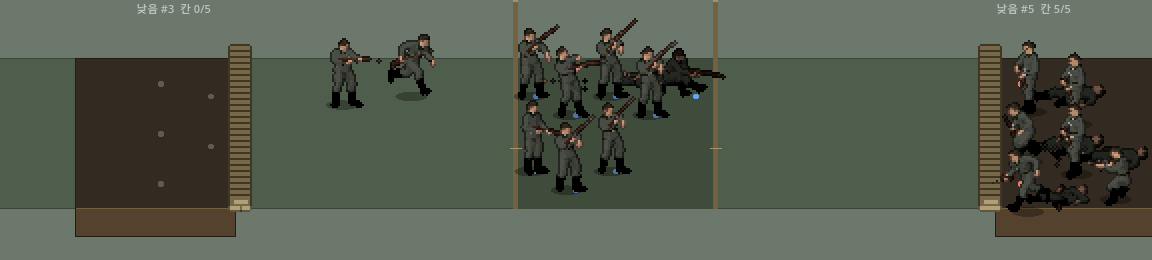
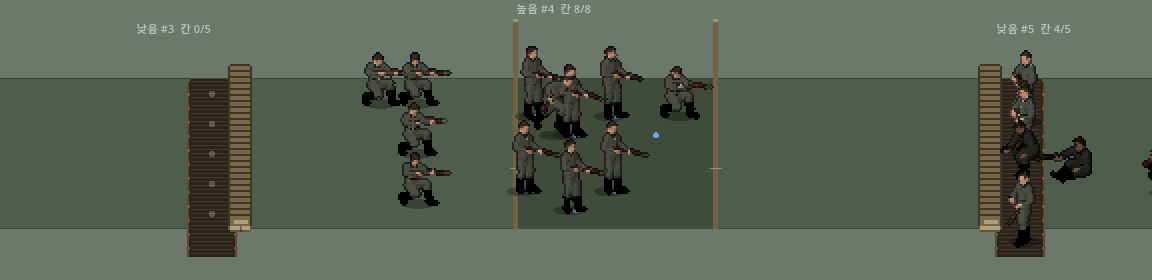
기록: 참호 = 워페어식 좁은 판자 도랑(02 U58 덧붙임 · 맵_리소스 요청 [3] · 카메라 40° 시험 그림 · 작업내역)

diff --git a/Docs/게임설계/맵_리소스.md b/Docs/게임설계/맵_리소스.md
@@ -27,7 +27,9 @@
 사용자: "지금 엄폐물 앉아서, 그 엄폐물이 그 형식대로 참호 버전이 있었으면" · "참호 안이 다 보여야지".
 
 - 엄폐물(낮음 · 높음)마다 **참호 버전**(`BattleCover.dug`) — **시뮬은 모래주머니 판과 똑같다**(구간 · 칸 · 벽 쪽 · 벽 높이 · 쏘는 / 숨는 자세 · 총알 판정). 모습만 땅을 판 것.
-- 도랑 깊이 = 벽 높이 − 모래주머니 0.3 m(낮음 0.7 m · 높음 1.2 m). 도랑(칸 구간 + 벽 반대쪽 1.5 m · 깊이 전체) 안의 것은 그만큼 내려 그린다
+- 모양은 **워페어 참호**(사용자가 보여 준 Warfare 리메이크 화면): 벽 쪽 끝에 폭 1.2 m(`TRENCH_W`)의 좁은 도랑이 깊이 방향으로 길게 · 바닥 판자 · 양옆 말뚝,
+  칸은 도랑 가운데 한 줄로 앞뒤로 늘어선다(병사가 한 줄로 서서 적 쪽을 본다).
+- 도랑 깊이 = 벽 높이 − 모래주머니 0.3 m(낮음 0.7 m · 높음 1.2 m). 도랑(벽 쪽 1.2 m · 깊이 전체) 안의 것은 그만큼 내려 그린다
   (`Battlefield.draw_ground_h` — 병사 · 총알 자국 · 맞은 점 · 조준점 · MG42 표시). 보이는 벽은 땅 위 모래주머니 0.3 m.
 - 화면: 도랑은 **잘라 낸 단면**(안이 다 보임) — 깊이 전체가 어두운 흙, 띠 아래로 도랑 깊이만큼 앞쪽 단면. 병사는 도랑 바닥에 선 채 몸 전체가 보인다.
   적 쪽 끝 모래주머니는 깊이마다 3D 판(지금은 코드로 그린 임시 그림).
@@ -35,7 +37,11 @@
 
 ![참호 버전 엄폐물](img/보병_참호버전.png)
 
-(사용자 씬 · 시험장 10-28 · 1152×648 의 땅 띠 부분. 왼쪽 · 오른쪽 갈색 칸 = 참호 버전 낮은 엄폐물(왼쪽은 비었고 오른쪽에 분대가 앉아 · 엎드려 있음), 가운데 = 원래 높은 엄폐물(모래주머니 판 — 세로 막대는 임시 벽 표시))
+(사용자 씬 · 시험장 10-28 · 지금 카메라 15°. 왼쪽 · 오른쪽 좁은 판자 도랑 = 참호 버전 낮은 엄폐물(오른쪽에 분대가 한 줄로), 가운데 = 원래 높은 엄폐물(모래주머니 판 — 세로 막대는 임시 벽 표시))
+
+**카메라 각도(사용자 결정 대기)** — 워페어 화면은 훨씬 위에서 내려다본다. 같은 장면을 40° · 땅 띠 360 px 로 찍은 것(저장소 값은 15° · 150 px 그대로):
+
+![참호 버전 40도](img/보병_참호버전_40도.png)
 
 ## 아스트라 요청(붙여 넣기용)
 
@@ -60,10 +66,10 @@
   - 진흙, 풀, 바퀴 자국이 있는 땅을 15° 위에서 내려다본 모습
   - 세로 300 화소(깊이 14 m가 납작하게 보인 것), 가로 1536
 
-[3] 참호 버전 엄폐물 (땅을 판 엄폐 자리 — 첨부 2의 갈색 칸)
-  a. 도랑 안(병사 뒤에 깔림): 15° 위에서 본 도랑 바닥 — 어두운 흙, 바닥 판자, 물웅덩이. 가로 4 m(320 화소) × 세로 300 화소(땅 띠와 같은 높이, 위아래로 이어지게).
-     맨 아래에 잘라 낸 앞쪽 흙벽 단면 0.7 m(56 화소)를 붙여 320 × 356 화소. 단면이라 안이 다 보이게(앞을 가리는 둑 없음).
-     높은 엄폐물용은 단면 1.2 m(96 화소)로 한 장 더.
+[3] 참호 버전 엄폐물 (땅을 판 좁은 도랑 — 첨부 2의 판자 도랑)
+  a. 도랑(병사 뒤에 깔림): 화면 위아래로 길게 이어지는 좁은 도랑을 위에서 본 모습 — 바닥 판자, 양옆 나무 말뚝과 판자 벽, 어두운 흙.
+     폭 1.2 m(96 화소) × 세로 300 화소(땅 띠와 같은 높이, 위아래로 이어지는 타일). 안이 다 보이게(앞을 가리는 둑 없음).
+     아래 끝 조각 0.7 m(56 화소) 하나 더(맨 앞 깊이 병사 발밑까지 — 높은 엄폐물용은 1.2 m · 96 화소).
   b. 모래주머니 한 단(적 쪽 끝에 게임이 깊이를 따라 쌓음): 끝에서 본 모래주머니 더미, 가로 0.5 m(40 화소) × 높이 0.3 m(24 화소), 윗면이 살짝 보이게. 2~3가지.
 
 [4] 모래주머니 더미 (보통 엄폐물, 옆에서 본 모습, 가로 1~1.5 m): 낮은 것 1.0 m(80 화소), 높은 것 1.5 m(120 화소)

diff --git a/Docs/인수인계/02_버그와_교훈.md b/Docs/인수인계/02_버그와_교훈.md
@@ -435,6 +435,12 @@
 - ★교훈: 사용자가 "지금 엄폐물", "그 형식대로" 라고 하면 이미 있는 것의 변형이다 — 새 종류를 만들지 말 것. 모습만 바꾸는 요청이면 시뮬은 건드리지 말고 그리기로 풀어
   "결과가 고치기 전과 같다" 를 검사로 박는다(이번에 시뮬을 건드렸다가 쏘는 쪽이 불리해졌다). 모습은 사용자 데이터로 찍은 화면을 바로 보여 주며 고친다.
 
+- **10-28 밤 덧붙임 — 워페어 화면**: 사용자가 Warfare 리메이크 화면을 보여 줌("이런 그림을 원한 건데") — 참호는 깊이 방향으로 길게 이어진 **좁은 판자 도랑**에 병사가 **한 줄로**.
+  → 참호 버전 도랑 = 벽 쪽 끝 폭 1.2 m(`TRENCH_W` · 처음의 칸 구간 + 뒤 1.5 m 는 버림), 칸 = 도랑 가운데 한 줄로 앞뒤(시뮬은 칸 x 만 바뀜 — 칸 수 · 벽 · 자세 · 판정 그대로),
+  바닥 판자 · 양옆 말뚝. 같이 드러난 잠복 버그: 제압된 운용 장비 좌석 병사가 `s.cover` 없이 엄폐 자세를 찾아 null 오류(엄폐 도착은 장비의 엄폐물로 보는데
+  자세는 병사 자신의 것) → 같은 엄폐물에서. 카메라 각도(워페어는 훨씬 위에서 — 40° · 땅 띠 360 px 시험 화면)는 사용자 결정 대기.
+  검사 sim(씨앗 1941 · 7 · 2024) · equip(세 씨앗 · 오류 0) · view3d 통과.
+
 ### U57. (2026-10-28) "오른손으로 갑자기 붙여 놓으면 팔이 꺾이거나 무기가 이상한 위치로 튀어서 팔목이 돌아가" — 동작마다 잡기를 바꾸면 총이 따라가는 손이 바뀌는데 자리를 안 옮겨 줌
 - **사용자**: "동작마다 총기를 잘 붙여 놓았어. 근데 쓰면서도 이해 안 가는 게 오른손으로 갑자기 붙여 놓으면 팔이 존나 꺾이거나 무기가 이상한 위치에 튀어서 팔목 이런 게 돌아가 손이랑.
   그래서 그런 애니메이션은 잡기에 기반(안 붙음) 처리로 해 놓고 총기를 맞춰 놓았어 … 지금 내가 말한 상황 중 버그가 있나?"
